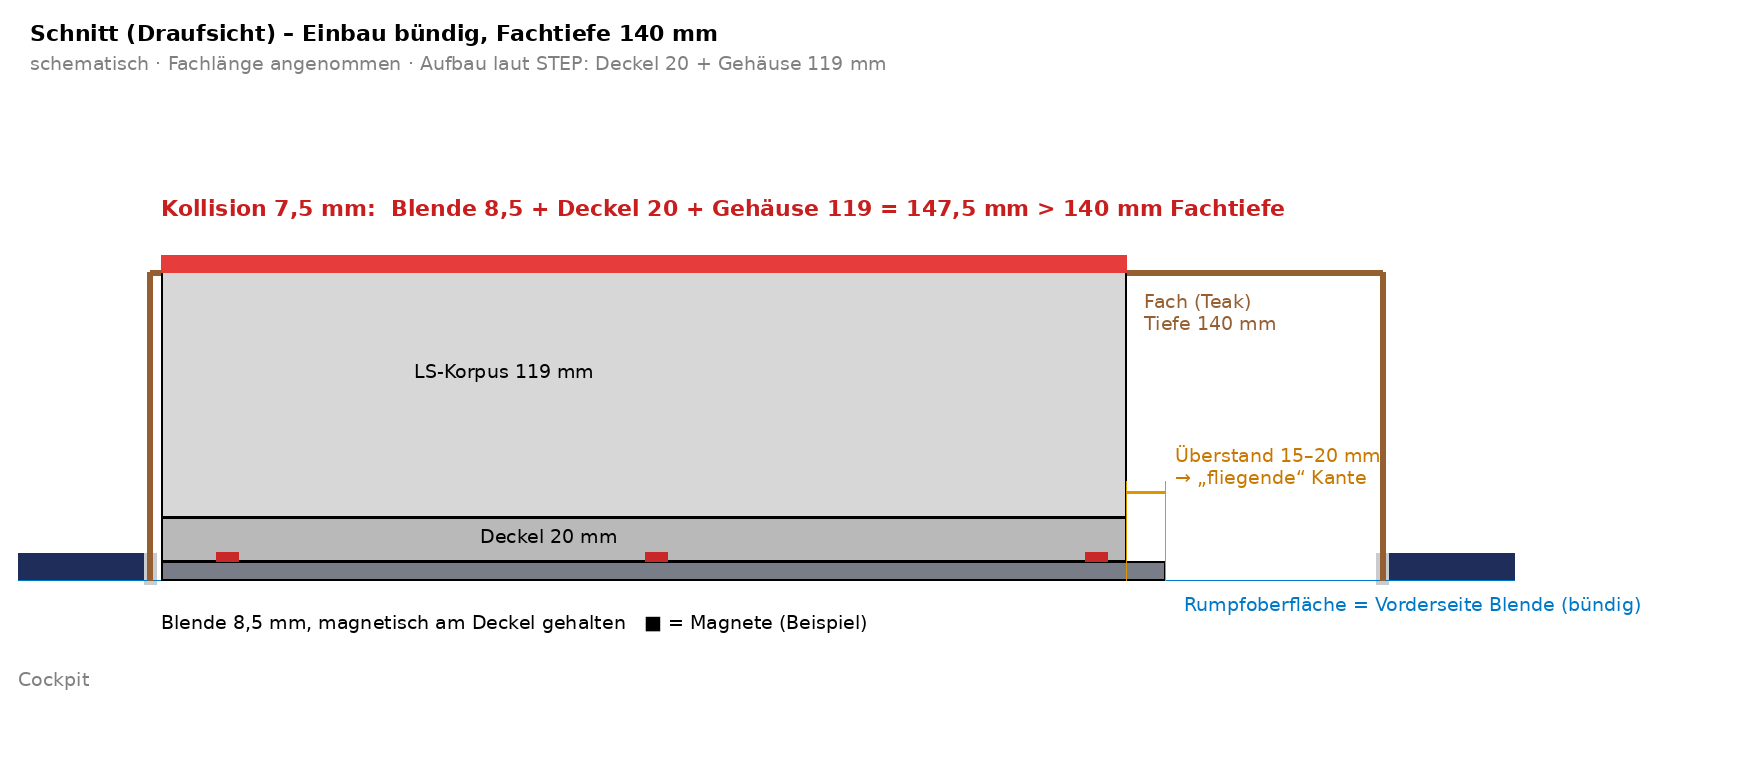
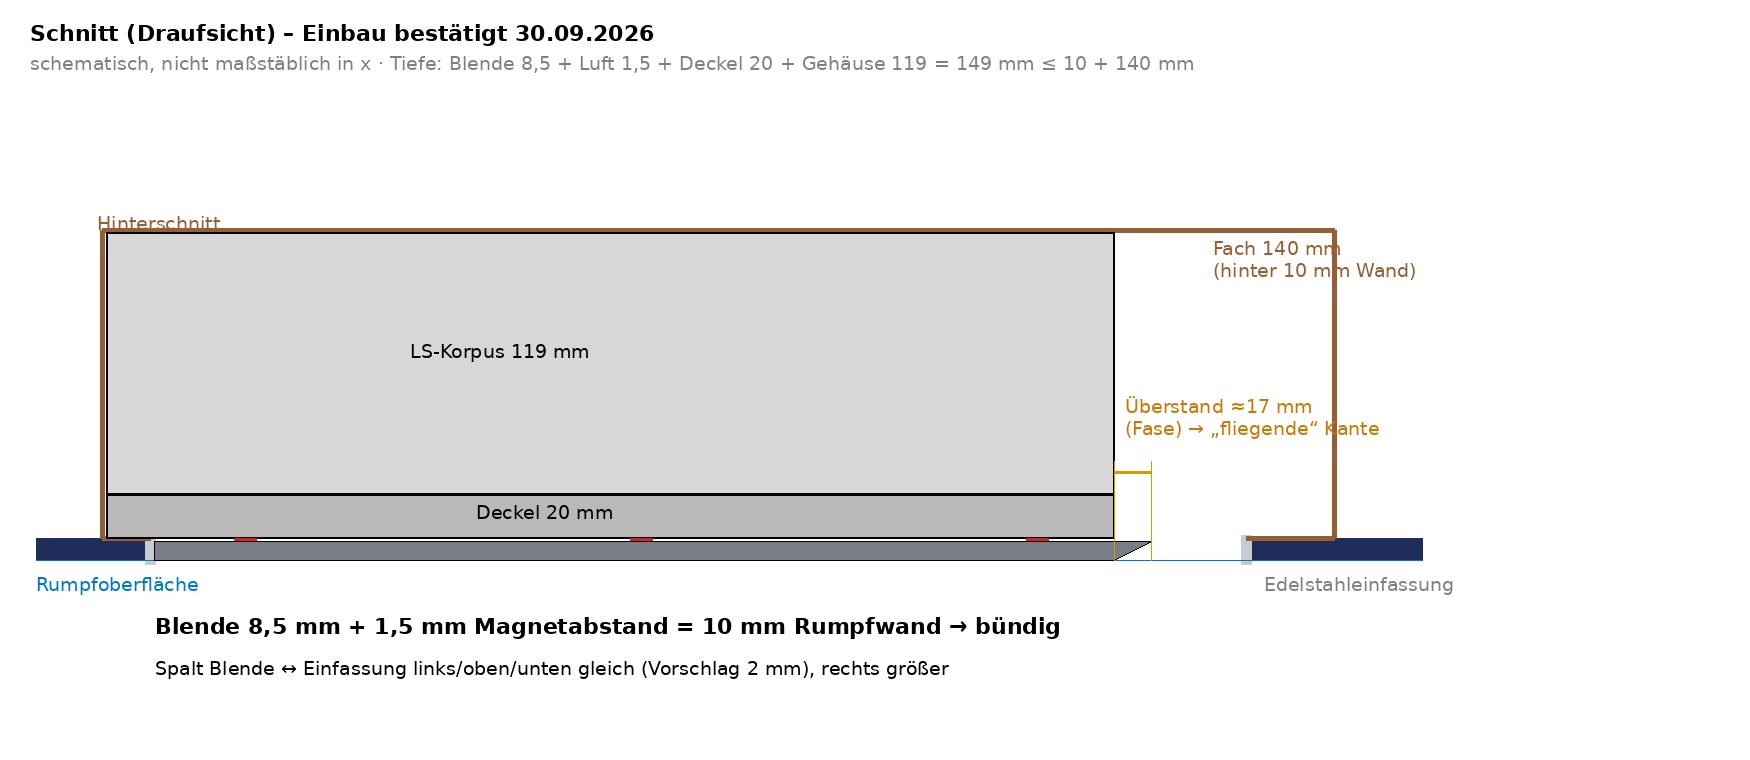
Blende: Einbau bestätigt (Rumpfwand 10 mm, Hinterschnitt), CAD-Konturen ergänzt
Tiefenkonflikt aufgelöst: Blende 8,5 + Magnetabstand 1,5 = Rumpfwand 10 mm.
Vorder-/Rückseite der Blende und Deckelfront aus dem STEP als Referenz.

Claude-Session: https://claude.ai/code/session_01QM8wSzkajYxSVoAyJoSFf2

diff --git a/testprojekt-alu-bauteil/03_konzepte/ANFORDERUNGEN.md b/testprojekt-alu-bauteil/03_konzepte/ANFORDERUNGEN.md
@@ -4,27 +4,41 @@
 
 ![Schnitt](Einbau_Schnitt_schematisch.png)
 
-- Der LS-Korpus (Deckel 20 mm + Gehäuse 119 mm, siehe `parameter.json` → `einbauschnittstelle`)
-  steckt im Schwalbennest. Das Fach ist **140 mm tief**. Der Korpus sitzt an einem Ende der
-  Öffnung, der Rest des Fachs bleibt offen.
-- Die **Vorderseite der Blende schließt außen bündig mit dem Bootsrumpf ab** (Ebene des
-  Edelstahlrahmens).
-- **Blendendicke max. 8,5 mm** (die heutige Lederabdeckung mit 10 mm ist zu dick).
-- **Befestigung mit Magneten** am LS-Korpus (Deckel). Keine sichtbaren Schrauben.
-- **Überstand 15–20 mm** über den Korpus, nur an der Seite zum offenen Fach. Von der Seite
-  gesehen entsteht eine schlanke, „fliegende“ Kante mit Schattenfuge dahinter.
-- Treiberausschnitte (BF 32, KT 100 V, W 130 X) laut `einbauschnittstelle`. Die Blende gibt es
-  links und rechts, spiegelbildlich.
+- **Rumpfwand 10 mm**, Öffnung mit polierter Edelstahleinfassung. Dahinter liegt das Fach mit
+  **140 mm Tiefe**.
+- Der **LS-Korpus** (Deckel 20 mm + Gehäuse 119 mm = 139 mm) schlüpft in das Fach und ist genau
+  auf die Innenmaße eingepasst. **Links rutscht er in einen Hinterschnitt** hinter die Rumpfwand
+  (im CAD: linke Korpuskante senkrecht, 90°).
+- Die **Blende (max. 8,5 mm)** wird mit **Magneten** am Deckel gehalten. Die Magnete halten
+  **1,5 mm Abstand**, so dass die Blende genau in der 10-mm-Wand sitzt und **bündig mit dem Rumpf**
+  abschließt.
+- **Links ist die Blende gegenüber dem Korpus abgeschrägt** (CAD 65,6°), damit sie in die
+  eingefasste Öffnung passt.
+- **Rechts steht sie ca. 15–20 mm über den Korpus** (CAD: Rückseite ≈17 mm, als Fase ausgeführt).
+  Das ergibt die schlanke, „fliegende“ Kante.
+- **Spalt zwischen Blende und Einfassung:** links, oben und unten umlaufend gleich (Vorschlag 2 mm),
+  rechts größer.
+- Treiberausschnitte laut `parameter.json` → `einbauschnittstelle`. Die Blende gibt es links und
+  rechts, spiegelbildlich.
+- Tiefe: 8,5 + 1,5 + 20 + 119 = 149 mm ≤ 10 mm Wand + 140 mm Fach. Der zuvor vermutete
+  Tiefenkonflikt entfällt.
 
-## ⚠ Offener Konflikt in der Aufbautiefe
+## CAD-Referenz (Stand Fusion/STEP, bleibt Referenz)
 
-Blende 8,5 + Deckel 20 + Gehäuse 119 = **147,5 mm > 140 mm Fachtiefe**, also **7,5 mm zu viel**.
-Mögliche Auflösungen (Entscheidung offen):
-1. Die 140 mm werden ab Rahmenaußenkante gemessen, und Wand oder Rahmen bringen zusätzliche Tiefe.
-   Dann bitte nachmessen.
-2. Den Deckel des Korpus um ≥ 7,5 mm dünner machen oder die Blende in den Deckel einlassen
-   (Tasche im Deckel).
-3. Die Korpus-Rückseite anpassen oder schräg zuschneiden, falls die Fachrückwand der Rumpfform folgt.
+Die Maße der heutigen Lederabdeckung und des Deckels bleiben **unverändert** in
+`parameter.json` → `einbauschnittstelle`. Zusätzlich aus dem STEP ausgelesen (Ursprung = linke
+untere Ecke der Blendenvorderseite, mm):
+
+| Kontur | Ecken (unten links → unten rechts → oben rechts → oben links) |
+|---|---|
+| Blende Vorderseite | (0/0) · (369,1/23,9) · (438,7/209,4) · (93,8/207,0) |
+| Blende Rückseite (mit Überstand/Fase rechts) | (−0,6/−0,1) · (388,4/25,0) · (457,8/210,1) · (93,5/207,5) |
+| Deckel/Korpus-Front | (−17,8/2,4) · (373,8/27,7) · (440,6/205,9) · (−17,4/202,7) |
+
+Die Fotomontage (Referenzfoto aus dem privaten Repo, nicht hier abgelegt) wurde **am Foto**
+perspektivisch angepasst, nicht an der Blende. Die Blende ist dafür so eingepasst, dass links,
+oben und unten ein gleicher Spalt von 2 mm entsteht. Rechts wurden 20 mm Luft hinter der Fase
+angenommen. Die Öffnungsmaße sind damit noch nicht nachgemessen.
 
 ## Designvarianten
 
@@ -38,8 +52,8 @@ Mögliche Auflösungen (Entscheidung offen):
 
 ## Offen
 
-- Auflösung des Tiefenkonflikts (siehe oben)
-- Maße der Öffnung (Länge oben/unten, Höhe) und Lage des Korpus im Fach (Ende Richtung Bug oder Heck)
+- Nachmessen: Öffnung innen an der Einfassung (Länge oben/unten, Höhe) und Spalt rechts
+- Spaltmaß festlegen (Vorschlag 2 mm)
 - Logo/Signet (Meisterwerke Marina, Kienbacher, neutral)
 - Variante 2: Perforation gebohrt oder geschlitzt, LED ja/nein (Bauraum für LED-Streifen und
   Diffusor in 8,5 mm)
